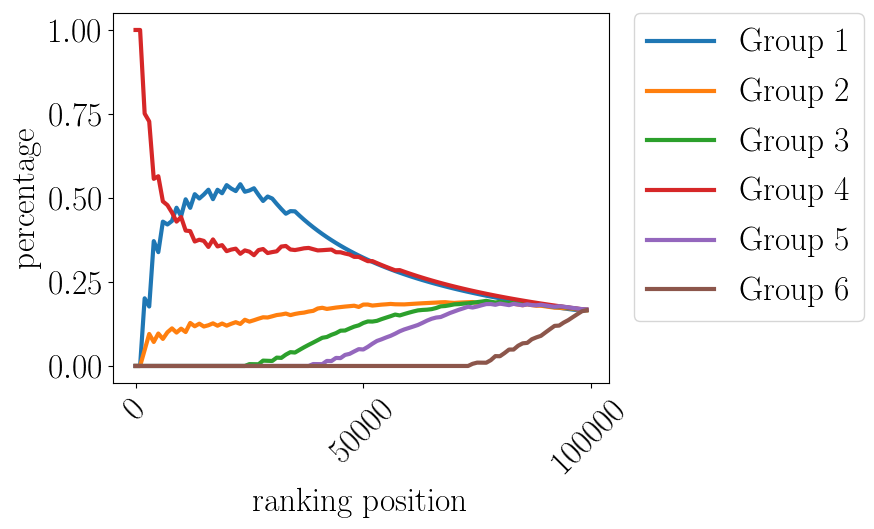
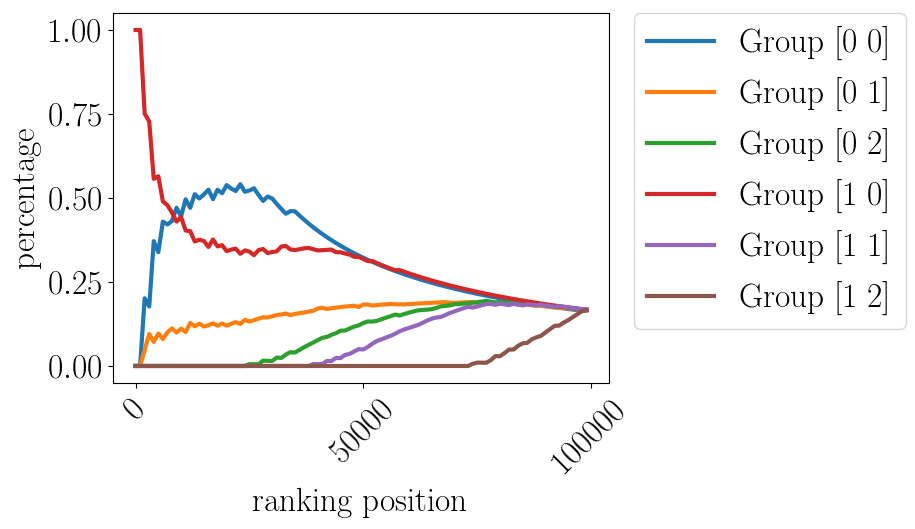
made plots having more verbose legend

diff --git a/src/main.py b/src/main.py
@@ -21,14 +21,19 @@ def createSyntheticData(size):
     creator.sortByColumn('score')
     creator.writeToCSV('../data/synthetic/dataset.csv',
                        '../data/synthetic/groups.csv')
-    groupNames = {"[0 0]":"Group 1",
-                  "[0 1]":"Group 2",
-                  "[0 2]":"Group 3",
-                  "[1 0]":"Group 4",
-                  "[1 1]":"Group 5",
-                  "[1 2]":"Group 6"}
+    groupNames = {"[0 0]":"Group [0 0]",
+                  "[0 1]":"Group [0 1]",
+                  "[0 2]":"Group [0 2]",
+                  "[1 0]":"Group [1 0]",
+                  "[1 1]":"Group [1 1]",
+                  "[1 2]":"Group [1 2]"}
     plotKDEPerGroup(creator.dataset, creator.groups, 'score',
                     '../data/synthetic/scoreDistributionPerGroup.png', groupNames)
+#     dataset = pd.read_csv('../data/synthetic/dataset.csv', sep=',')
+#     groups = pd.read_csv('../data/synthetic/groups.csv', sep=',')
+#
+#     plotKDEPerGroup(dataset, groups, 'score',
+#                     '../data/synthetic/scoreDistributionPerGroup.png', groupNames)
 
 
 def createLSATDatasets():
@@ -233,12 +238,12 @@ def main():
         thetas = parseThetas(args.run[2])
         result_dir = args.run[3]
         if args.run[0] == 'synthetic':
-            groupNames = {"[0 0]": "Group 1",
-                          "[0 1]": "Group 2",
-                          "[0 2]": "Group 3",
-                          "[1 0]": "Group 4",
-                          "[1 1]": "Group 5",
-                          "[1 2]": "Group 6"}
+            groupNames = {"[0 0]":"Group [0 0]",
+                          "[0 1]":"Group [0 1]",
+                          "[0 2]":"Group [0 2]",
+                          "[1 0]":"Group [1 0]",
+                          "[1 1]":"Group [1 1]",
+                          "[1 2]":"Group [1 2]"}
             rerank_with_cfa(score_stepsize,
                             thetas,
                             result_dir,
@@ -282,7 +287,7 @@ def main():
         if args.evaluate[0] == 'synthetic':
             qualAttr = 'score'
             groups = pd.read_csv('../data/synthetic/groups.csv', sep=',')
-            groupNames = ["Group 1", "Group 2", "Group 3", "Group 4", "Group 5", "Group 6"]
+            groupNames = ["Group [0 0]", "Group [0 1]", "Group [0 2]", "Group [1 0]", "Group [1 1]", "Group [1 2]"]
 
         if args.evaluate[0] == 'lsat_race':
             qualAttr = 'LSAT'
